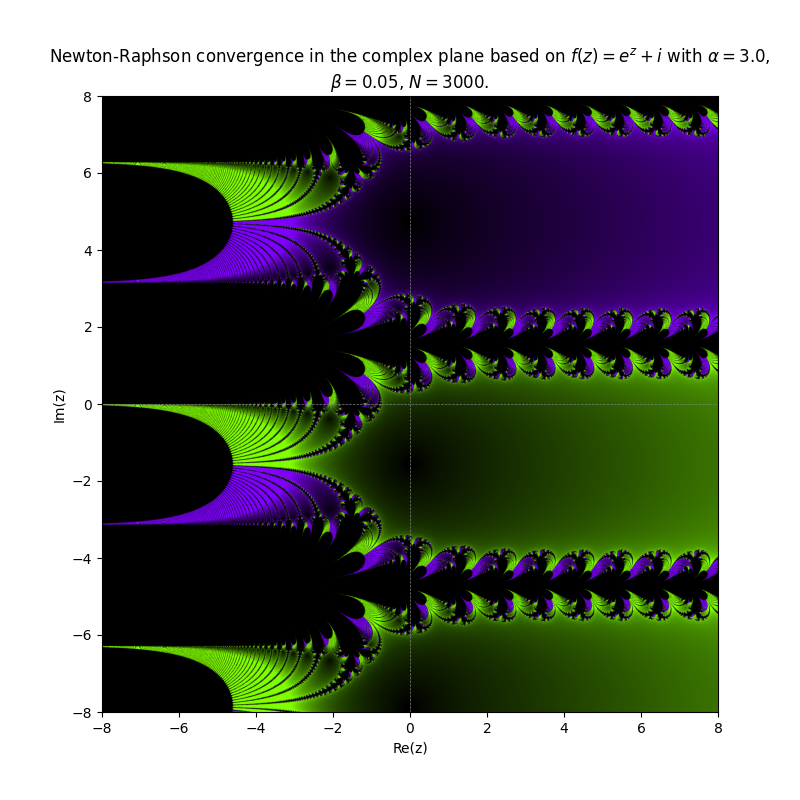
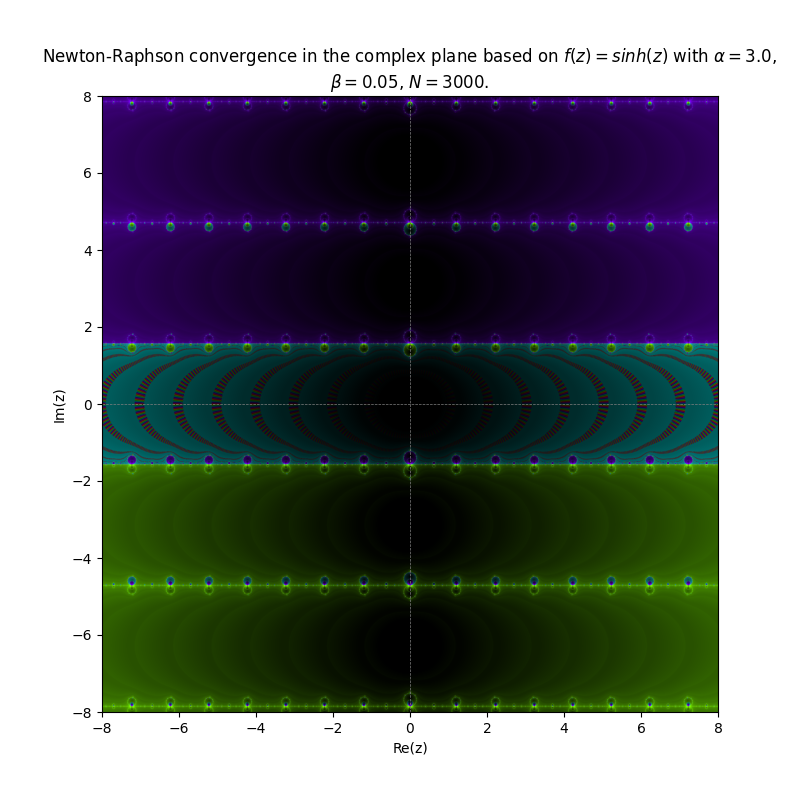
feat: Attempt to make more colouring options

diff --git a/src/newcomplexnewton.py b/src/newcomplexnewton.py
@@ -68,7 +68,8 @@ class ComplexNewton():
                         alpha : float=3.0, 
                         beta : float=0.05, 
                         maxColorOptions : int=20,
-                        filename : str = Any) -> None:
+                        filename : str = Any,
+                        colouring : str = Any) -> None:
 
         self.xMin  = xMin
         self.xMax = xMax
@@ -81,6 +82,7 @@ class ComplexNewton():
         self.beta = beta
         self.maxColorOptions = maxColorOptions
         self.filename = filename
+        self.colouring = colouring
         self.function = None
         self.dfunction = None
         self.strFunction = ""
@@ -179,8 +181,49 @@ class ComplexNewton():
 
         hsv = np.zeros((self.numPointsPerAxis, self.numPointsPerAxis, 3))
         angles = np.angle(Z)
+        radii = np.abs(Z)
 
-        hsv[pointsConverged, 0] = (angles[pointsConverged] + np.pi) / (2*np.pi)
+        if (self.colouring == "angle"):
+            hsv[pointsConverged, 0] = (angles[pointsConverged] + np.pi) / (2*np.pi)
+
+        elif (self.colouring == "radius"):
+            hsv[pointsConverged, 0] = (radii[pointsConverged] * 0.3) % 1.0
+
+        elif (self.colouring == "categorical"):
+            ZRounded = np.round(Z[pointsConverged], decimals=3)
+            uniqueRoots, indices = np.unique(ZRounded, return_inverse=True)
+
+            hues = np.linspace(0, 1, max(1, len(uniqueRoots)), endpoint=False)
+            hsv[pointsConverged, 0] = hues[indices]
+
+        elif (self.colouring == "sum"):
+            hsv[pointsConverged, 0] = ((Z[pointsConverged].real + Z[pointsConverged].imag) * 0.1) % 1.0
+        
+        elif (self.colouring == "polar"):
+            ZRounded = np.round(Z[pointsConverged], decimals=3)
+            uniqueRoots, indices = np.unique(ZRounded, return_inverse=True)
+            numRoots = max(1, len(uniqueRoots))
+
+            uniqueAngles = np.angle(uniqueRoots)
+            uniqueRadii = np.abs(uniqueRoots)
+
+            sort = np.lexsort((uniqueRadii, uniqueAngles))
+
+            hues = np.linspace(0, 1, numRoots, endpoint=False)
+
+            sortedHues = np.zeros(numRoots)
+            sortedHues[sort] = hues
+
+            hsv[pointsConverged, 0] = sortedHues[indices]
+        
+        elif (self.colouring == "capped"):
+            ZRounded = np.round(Z[pointsConverged], decimals=3)
+            uniqueRoots, indices = np.unique(ZRounded, return_inverse=True)
+
+            colorOptions = min(len(uniqueRoots), self.maxColorOptions)
+
+            hsv[pointsConverged, 0] = ((indices % colorOptions) / colorOptions) % 1.0
+
         hsv[pointsConverged, 1] = 1.0
         hsv[pointsConverged, 2] = brightness[pointsConverged]
 
@@ -201,7 +244,7 @@ class ComplexNewton():
         return (endMilli-startMilli)/1000
 
 if __name__ == "__main__":
-    cn = ComplexNewton(filename="GPU_3.png")
-    cn.setFunctions("e^z+i")
+    cn = ComplexNewton(filename="GPU_8.png", colouring="capped")
+    cn.setFunctions("sin(z)")
     runtime = cn.run()
     print(runtime)
